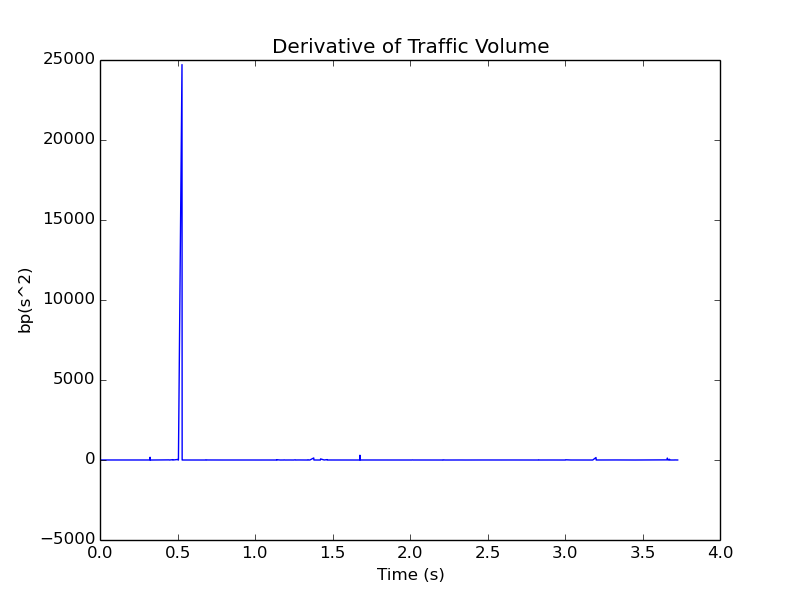
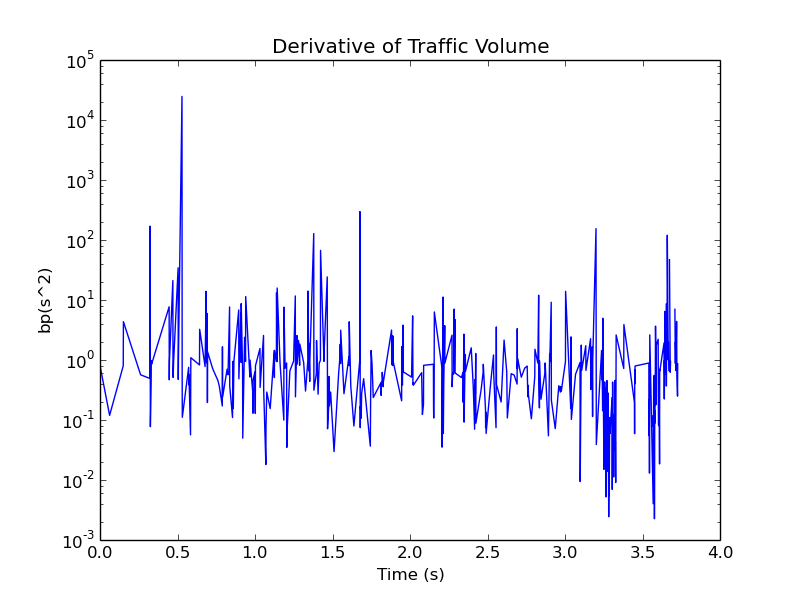
updated derivate traffic volume

diff --git a/readFlowTrace.py b/readFlowTrace.py
@@ -127,7 +127,7 @@ def sourceInterarrival(flows, prefix = None):
 def normalizedDerivative(nums):
     old = next(nums)
     for curr in nums:
-        yield (curr - old)/old
+        yield (abs(curr - old))/old
         old = curr
 
 def burstinessAnalysis(flows, prefix = None):
@@ -147,7 +147,7 @@ def burstinessAnalysis(flows, prefix = None):
     plt.xlabel('Time (s)')
     plt.ylabel('bps')
     plt.semilogy(xaxis, yaxis, 'b.')
-    #plt.savefig(prefixName(prefix, 'trafficvolume.png'))
+    plt.savefig(prefixName(prefix, 'trafficvolume.png'))
 
     plt.clf()
     plt.title('CDF of Traffic Volume')
@@ -156,53 +156,15 @@ def burstinessAnalysis(flows, prefix = None):
     plt.ylim(0,1)
     x, y = cdf(yaxis)
     plt.semilogx(x, y)
-    #plt.savefig(prefixName(prefix, 'cdf_trafficvolume.png'))
+    plt.savefig(prefixName(prefix, 'cdf_trafficvolume.png'))
 
     plt.clf()
     plt.title('Derivative of Traffic Volume')
     plt.xlabel('Time (s)')
     plt.ylabel('bp(s^2)')
     tmp = list(normalizedDerivative(iter(yaxis)))
-    plt.plot(xaxis[:-1], tmp)
+    plt.semilogy(xaxis[:-1], tmp)
     plt.savefig(prefixName(prefix, 'derivative_trafficvolume.png'))
-
-def KStesting(flows):
-    flows.sort(key = lambda f:f['time'])
-    srcs = set(f['src'] for f in flows)
-    for s in srcs:
-        inters = list(interarrivals(f['time'] for f in flows if f['src'] == s))
-
-        #try to find the exponential with the lowest ks D-value
-        #start at 10
-        def search(lambda_cand, tries, prevRight = None, prevLeft = None, curr_ks = None):
-            if (tries > 998):
-                return None
-            if (curr_ks is None):
-                curr_ks = scipy.stats.kstest(inters, lambda x: scipy.stats.expon.cdf(x, scale = lambda_cand))
-            left_try = lambda_cand - 1 if lambda_cand > 2 else lambda_cand / 2
-            right_try = lambda_cand + 1 if lambda_cand > 1 else lambda_cand * 2
-            left_ks = scipy.stats.kstest(inters, lambda x: scipy.stats.expon.cdf(x, scale = left_try)) if prevLeft is None else prevLeft
-            right_ks = scipy.stats.kstest(inters, lambda x: scipy.stats.expon.cdf(x, scale = right_try)) if prevRight is None else prevRight
-            if (left_ks is None or right_ks is None):
-                return lambda_cand, curr_ks
-            elif (left_ks < curr_ks and right_ks > curr_ks):
-                # go left
-                return search(left_try, tries+1, prevRight = curr_ks, curr_ks = left_ks)
-            elif (left_ks > curr_ks and right_ks < curr_ks):
-                # go right
-                return search(right_try, tries+1, prevLeft = curr_ks, curr_ks = right_ks)
-            elif (left_ks > curr_ks and right_ks > curr_ks):
-                return lambda_cand, curr_ks
-            else:
-                # go in both directions
-                l1, explore_left = search(left_try, tries+1, prevRight = curr_ks, curr_ks = left_ks)
-                l2, explore_right = search(right_try, tries+1, prevLeft = curr_ks, curr_ks = right_ks)
-                if (explore_right < explore_left):
-                    return l2, explore_right
-                else:
-                    return l1, explore_left
-
-
 
 if __name__ == '__main__':
     mode = None
